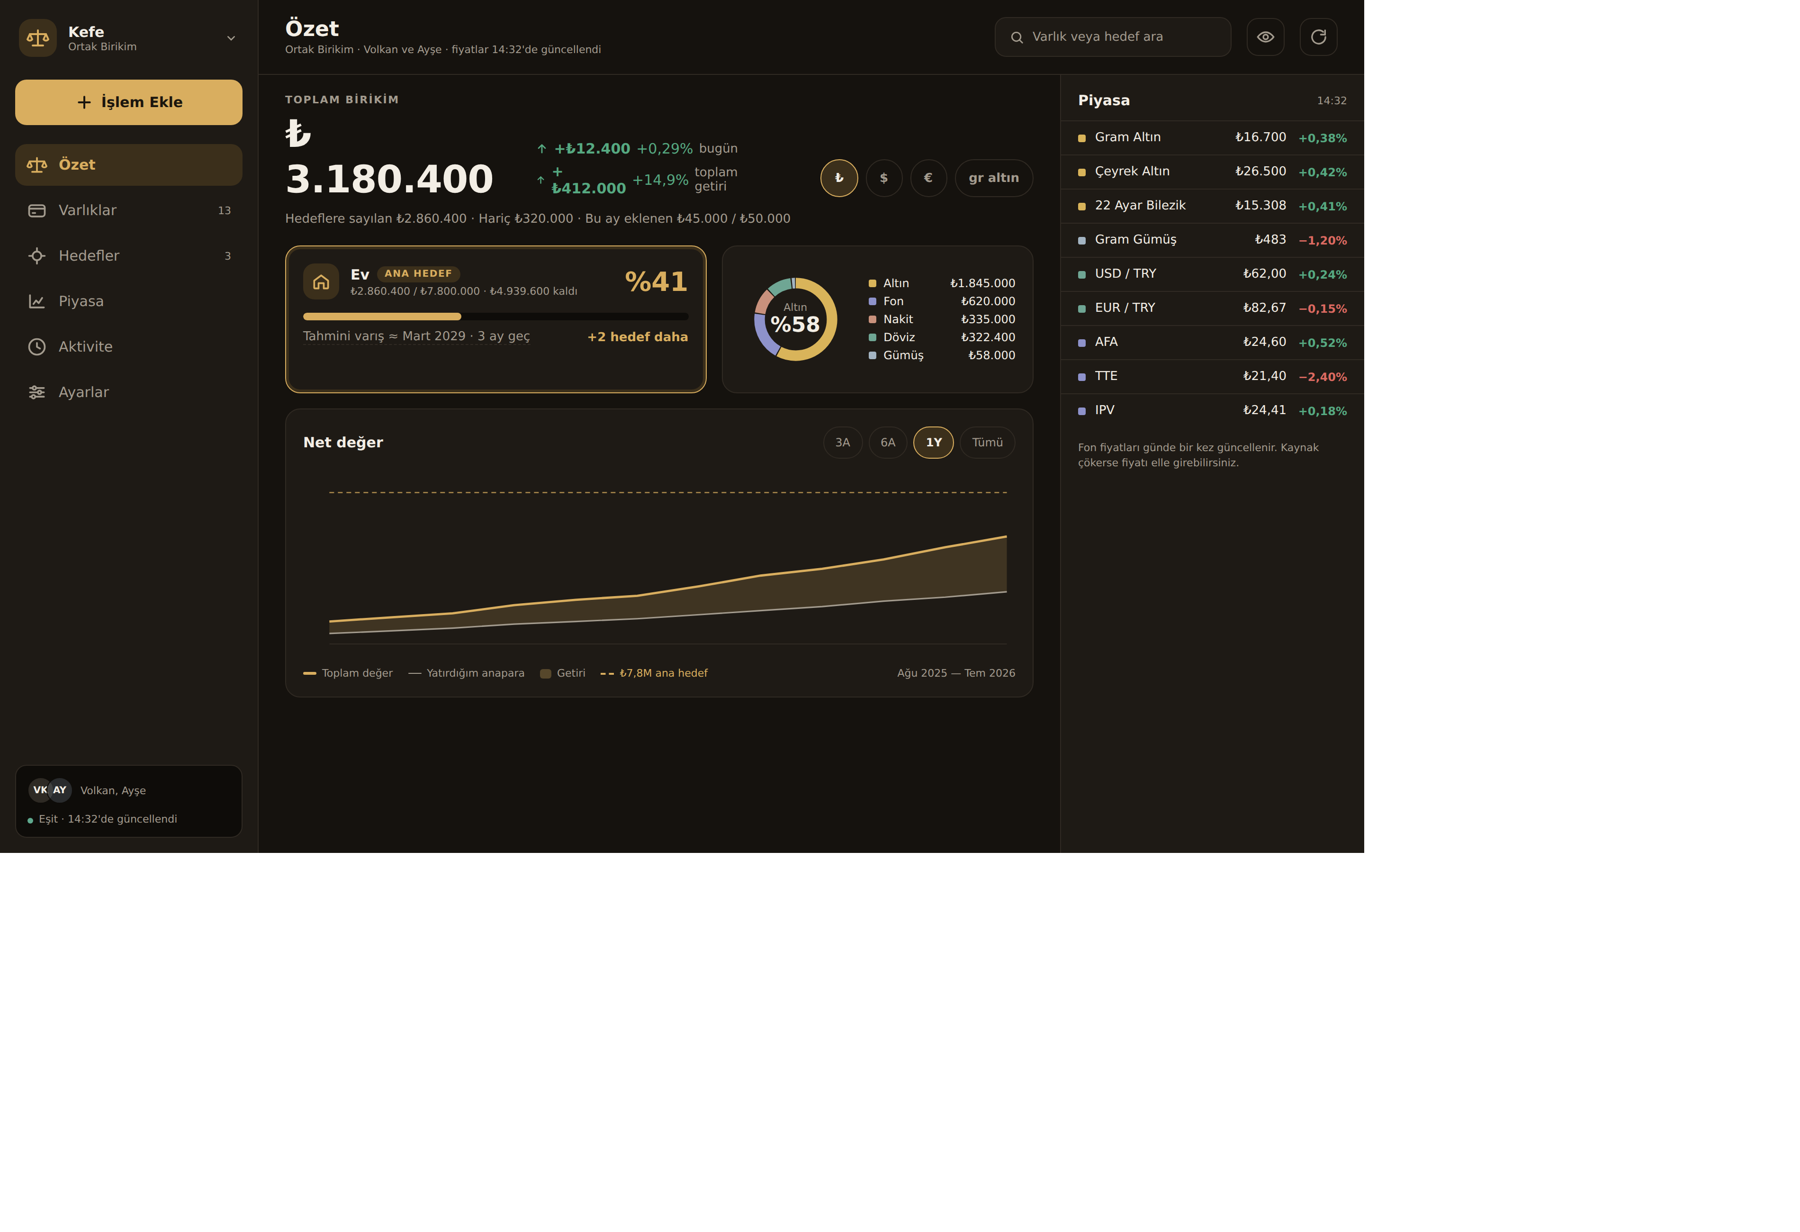
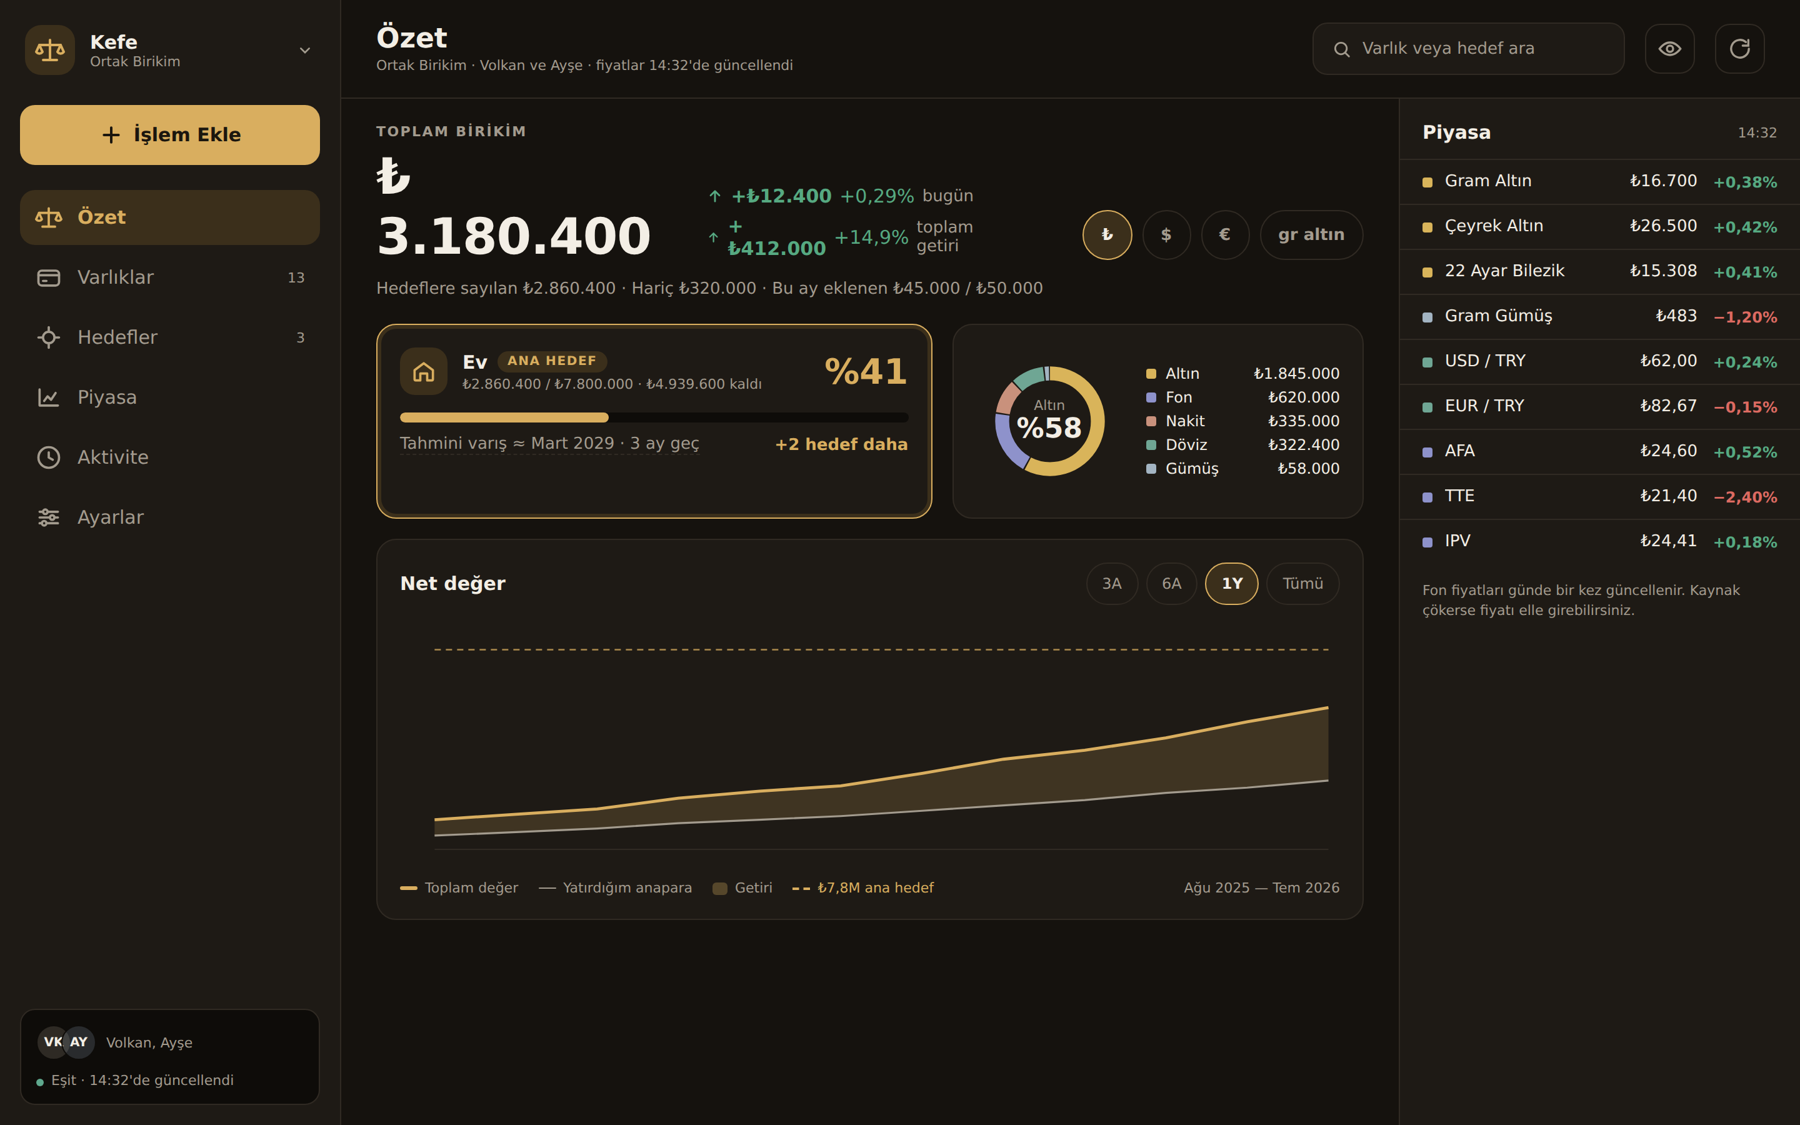
Use the real desktop screenshot and drop the tablet shot
The desktop image was the wrong file; swap it in and let one wide
screenshot carry the adaptive-layout section instead of two.

diff --git a/README.md b/README.md
@@ -46,12 +46,12 @@
 
 ---
 
-## 🎨 One codebase, three shapes
+## 🎨 Same code, adaptive layouts
 
 <div align="center">
-<img src="docs/screenshots/desktop.png" width="760" />
-<br/><br/>
-<img src="docs/screenshots/tablet.png" width="380" />
+<img src="docs/screenshots/desktop.png" width="880" />
+<br/>
+<sub>Desktop — the phone's bottom bar becomes a rail, the market panel gets its own column</sub>
 </div>
 
 ---
